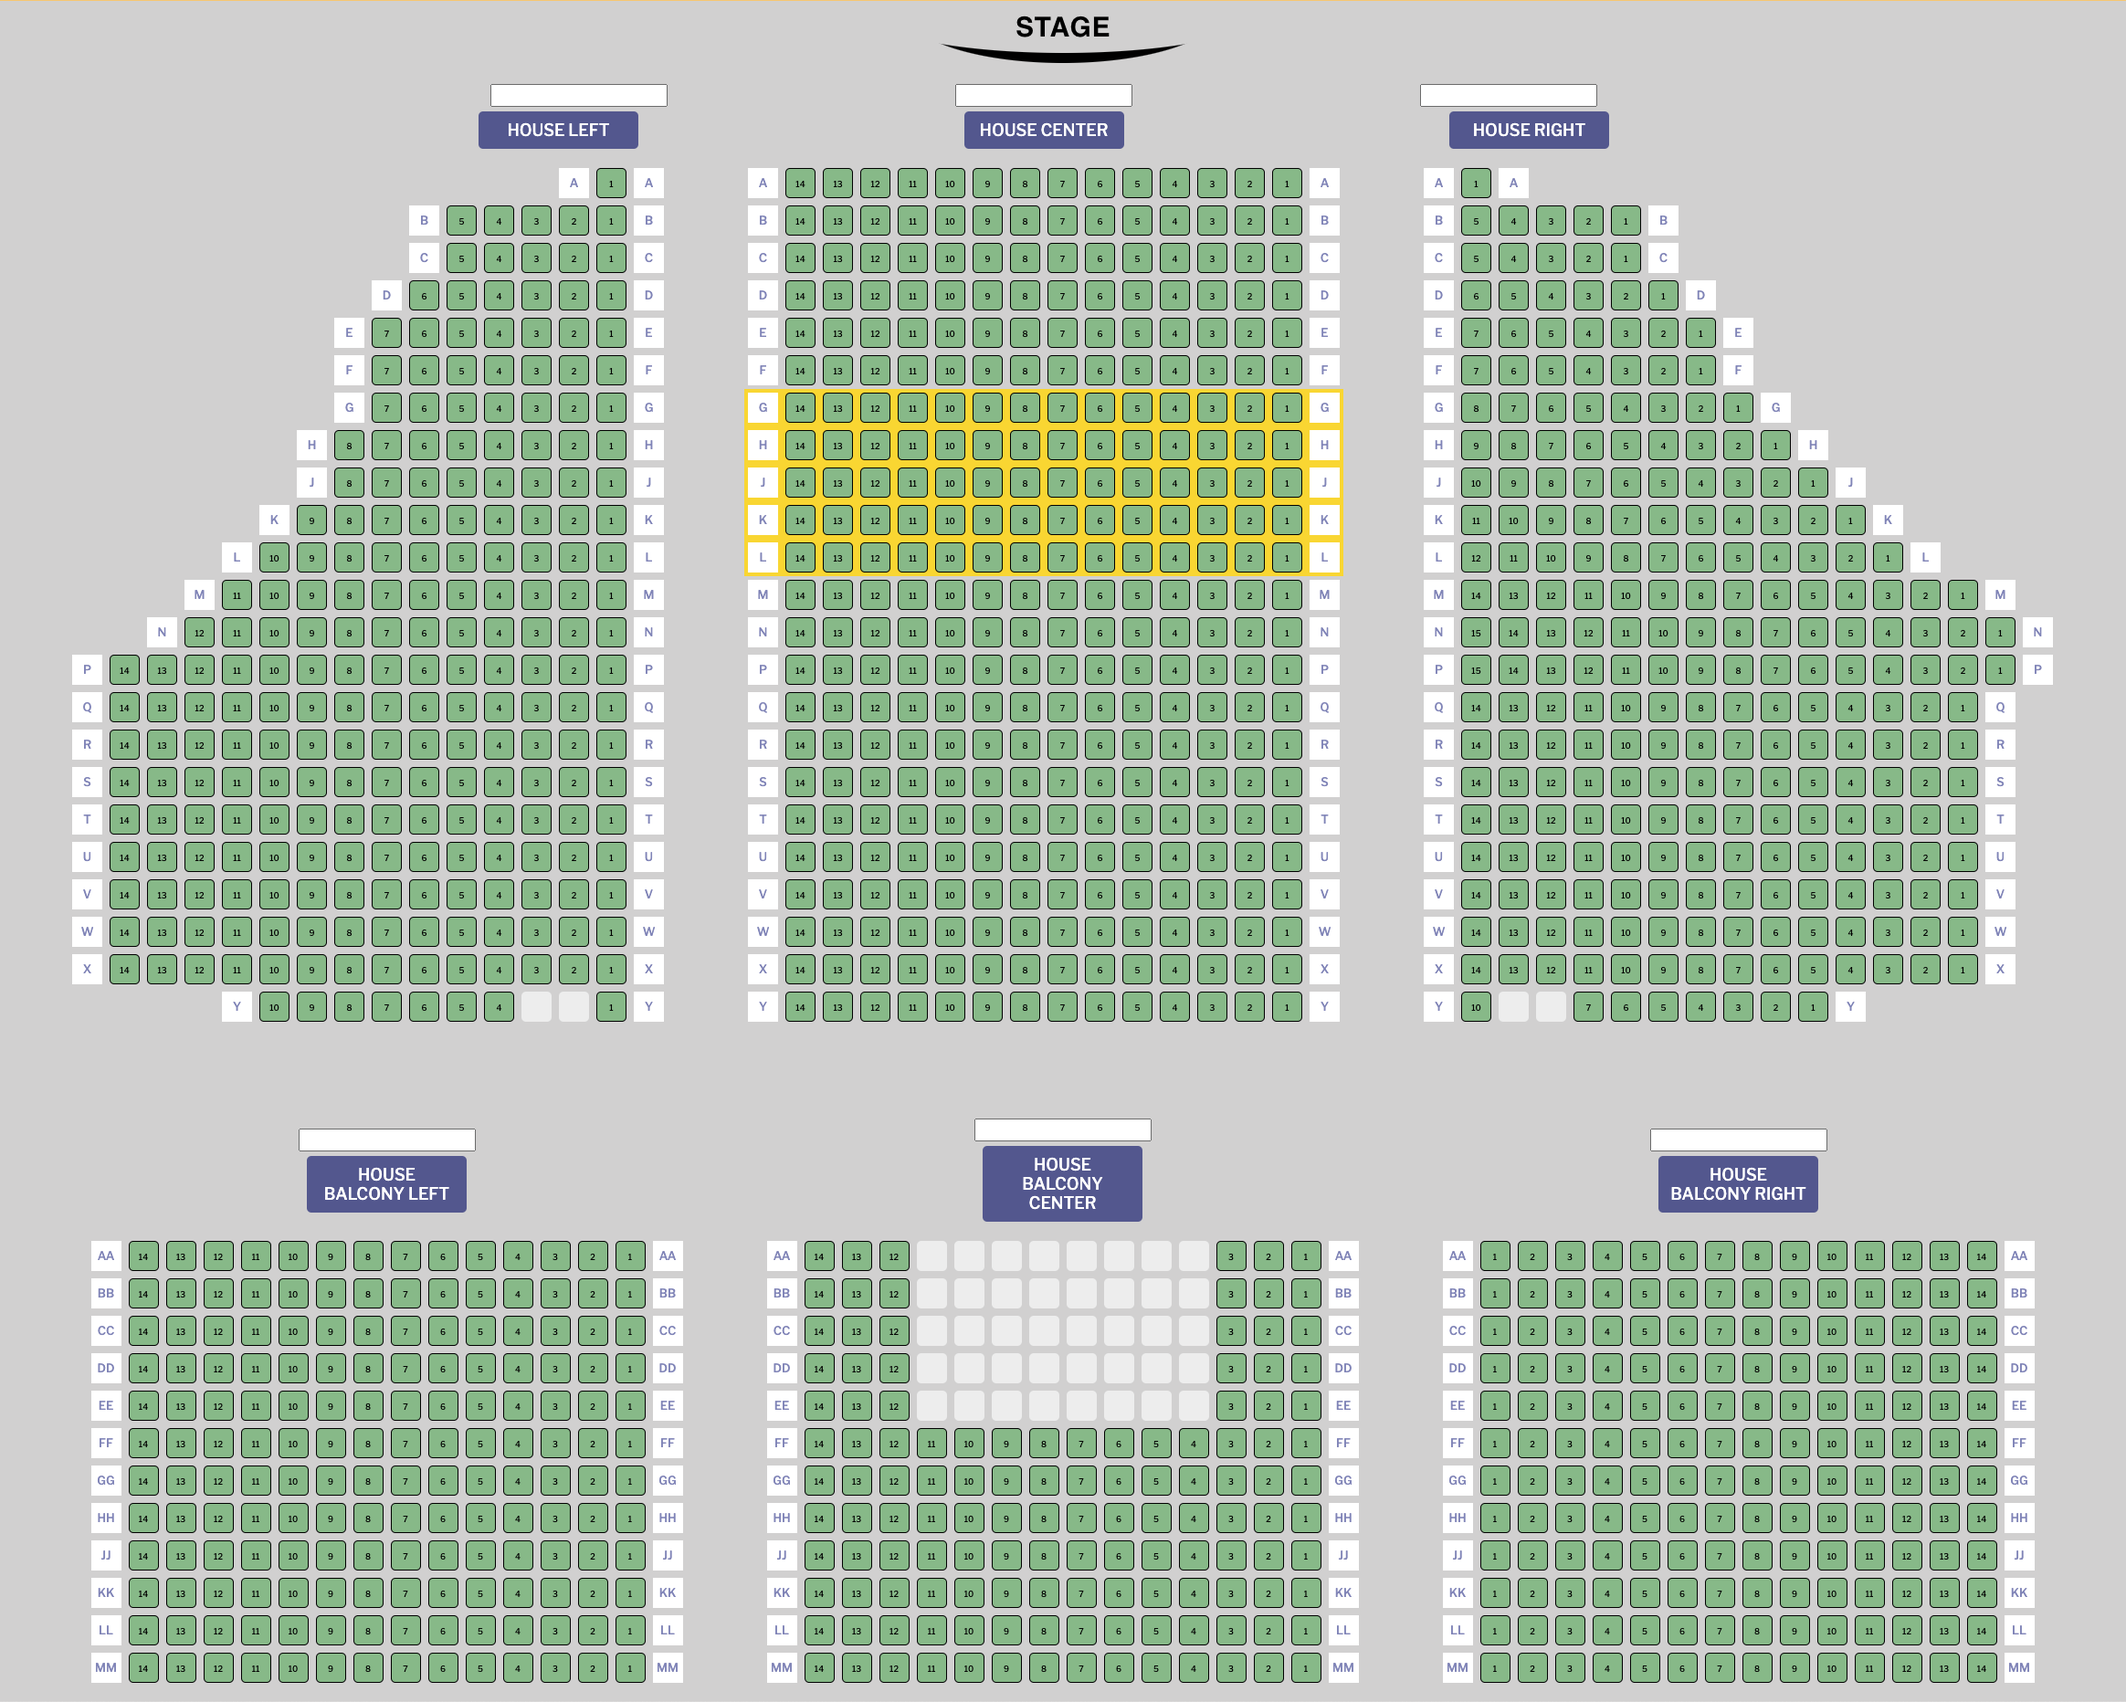
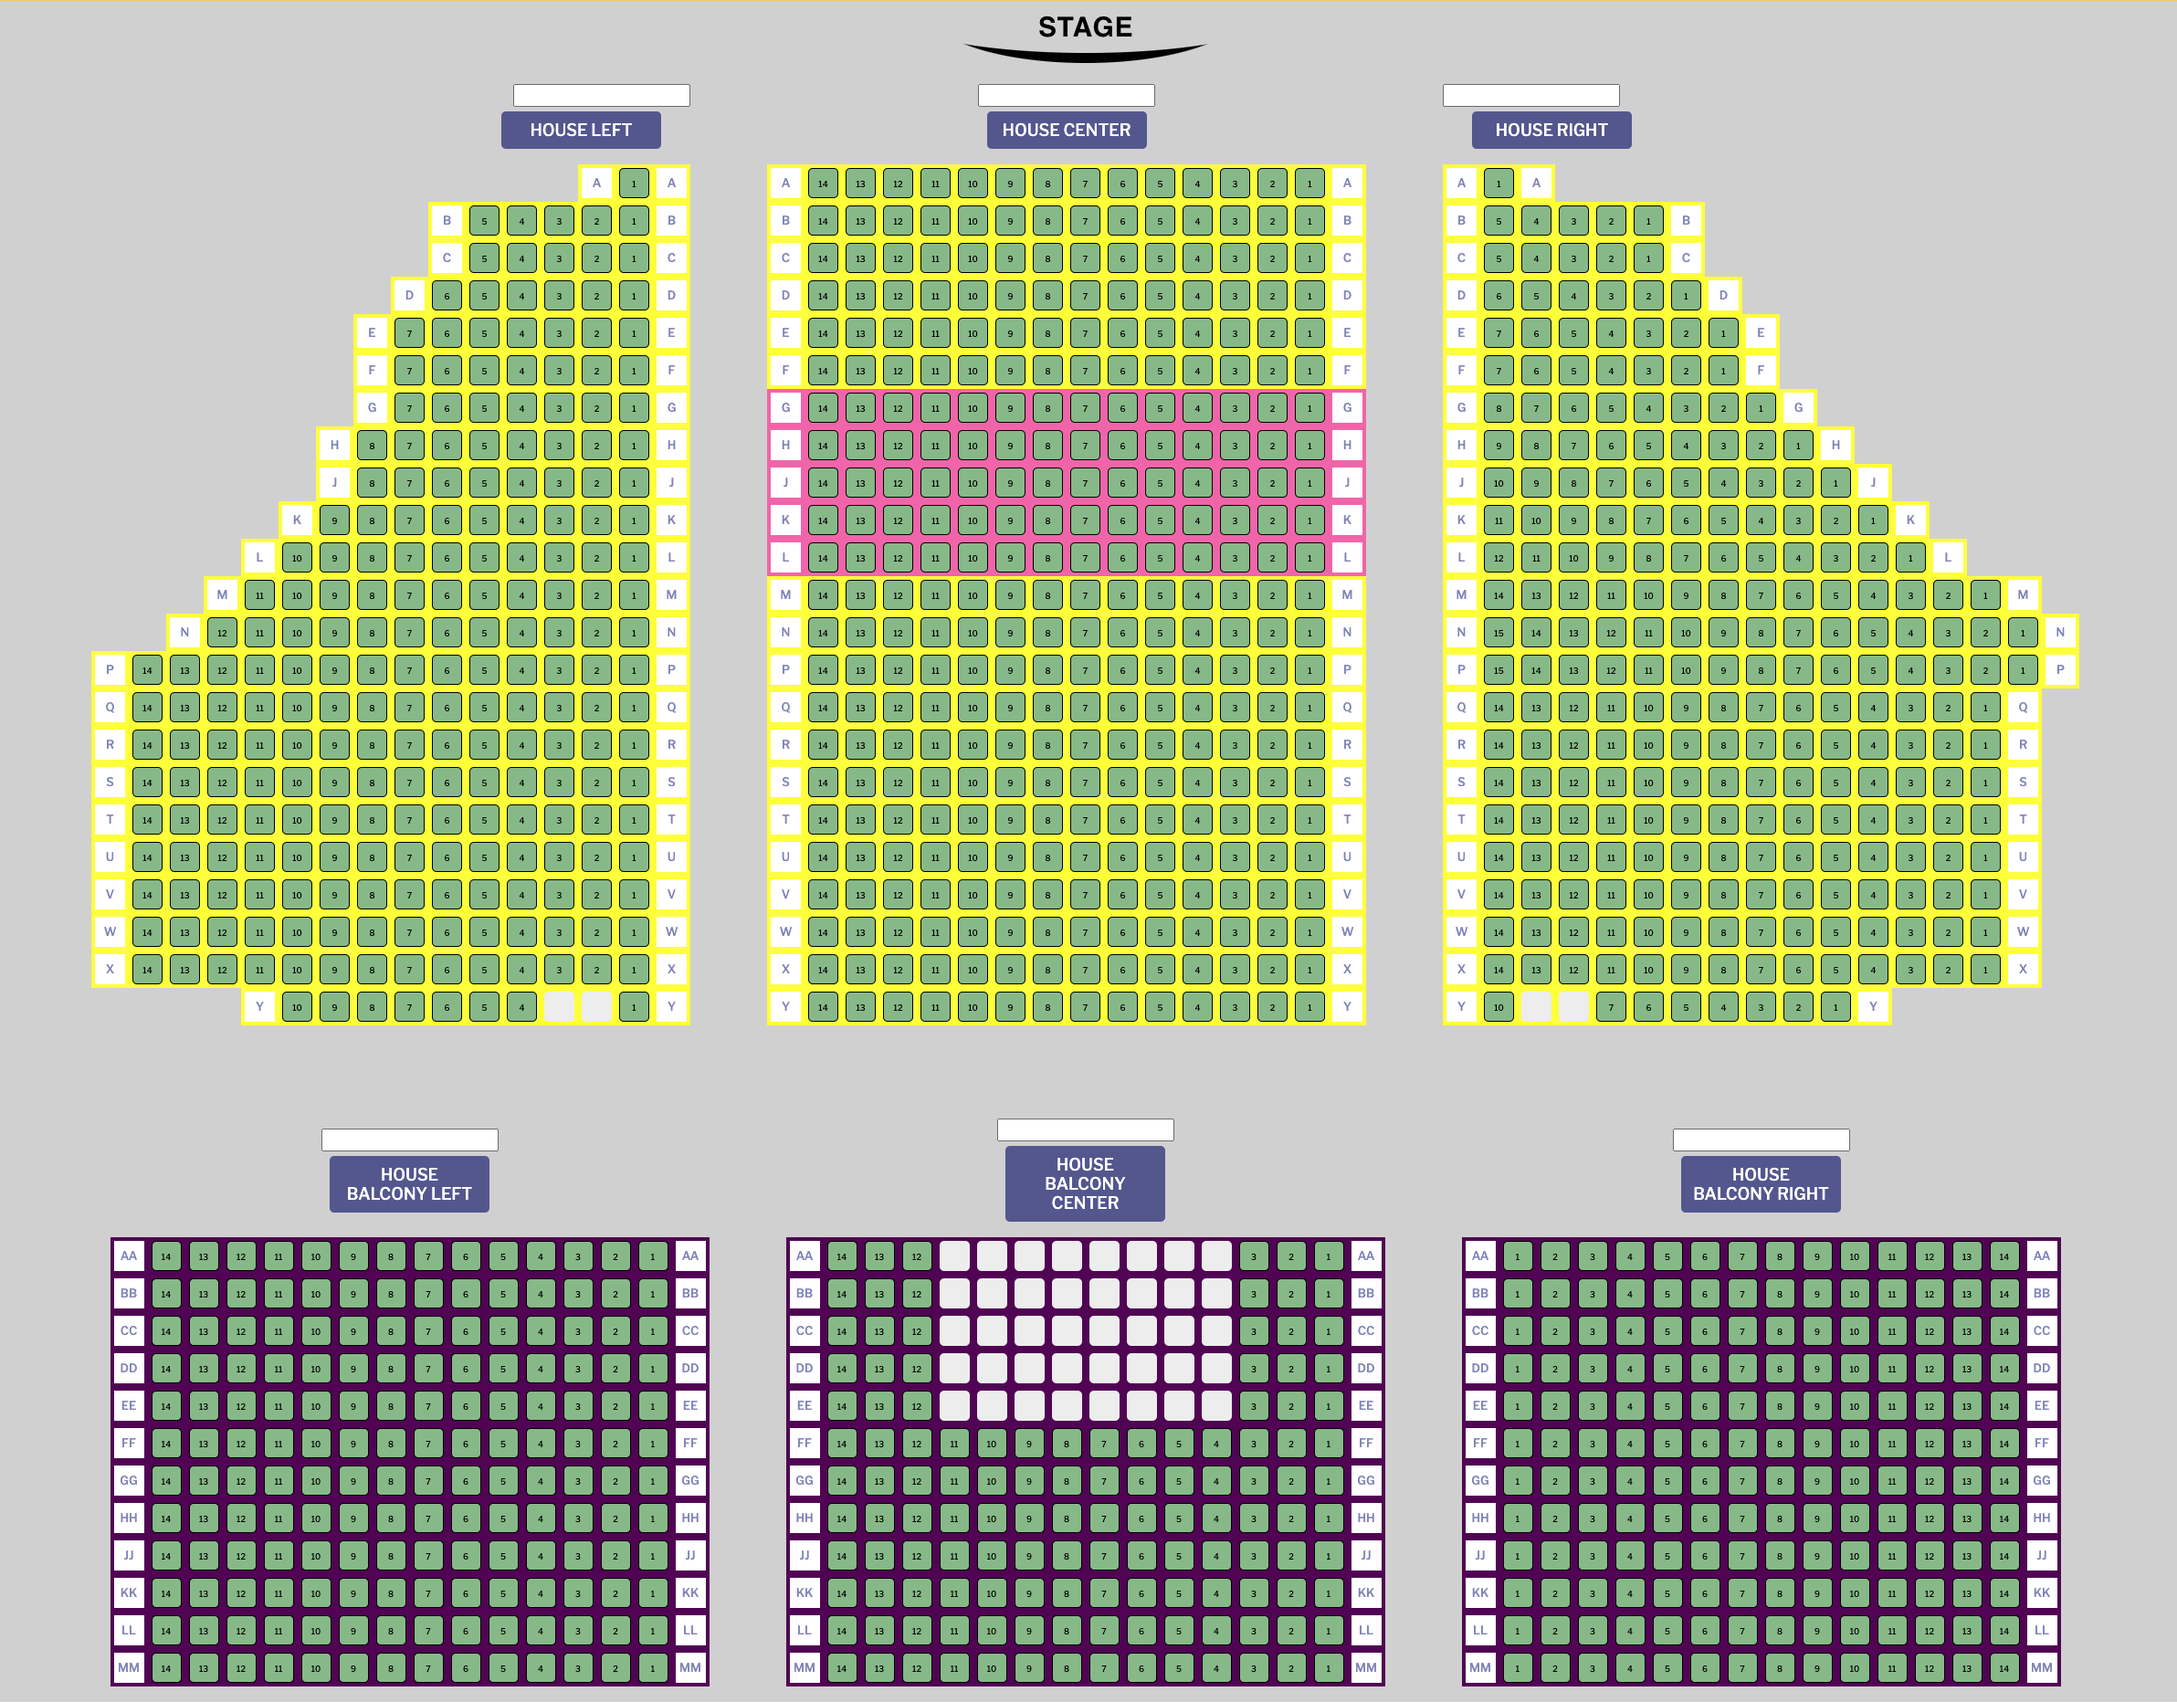
new venue

diff --git a/Completed/35053.html b/Completed/35053.html
@@ -1,8 +1,16 @@
 <!-- Farrington High School Auditorium -->
 <style>
-  .row-gold > div > table > tbody > tr,
-  .row-gold > div > table > tr {
-    background-color: gold;
+  .row-pink > div > table > tbody > tr,
+  .row-pink > div > table > tr {
+    background-color: hotpink;
+  }
+  .row-yellow > div > table > tbody > tr,
+  .row-yellow > div > table > tr {
+    background-color: yellow;
+  }
+  .row-purple > div > table > tbody > tr,
+  .row-purple > div > table > tr {
+    background-color: rgb(96, 0, 96);
   }
 </style>
 
@@ -72,7 +80,9 @@
           <!-- Front Seats -->
           <tr>
             <td>
-              <div align="right">{{{ sectionsMarkup.46125 }}}</div>
+              <div class="row-yellow" align="right">
+                {{{ sectionsMarkup.46125 }}}
+              </div>
             </td>
             <td>
               <div align="center">
@@ -84,26 +94,32 @@
                 >
                   <tr>
                     <td>
-                      <div align="center">{{{ sectionsMarkup.46126 }}}</div>
+                      <div class="row-yellow" align="center">
+                        {{{ sectionsMarkup.46126 }}}
+                      </div>
                     </td>
                   </tr>
                   <tr>
                     <td>
-                      <div class="row-gold" align="center">
+                      <div class="row-pink" align="center">
                         {{{ sectionsMarkup.46127 }}}
                       </div>
                     </td>
                   </tr>
                   <tr>
                     <td>
-                      <div align="center">{{{ sectionsMarkup.46128 }}}</div>
+                      <div class="row-yellow" align="center">
+                        {{{ sectionsMarkup.46128 }}}
+                      </div>
                     </td>
                   </tr>
                 </table>
               </div>
             </td>
             <td>
-              <div align="left">{{{ sectionsMarkup.46129 }}}</div>
+              <div class="row-yellow" align="left">
+                {{{ sectionsMarkup.46129 }}}
+              </div>
             </td>
           </tr>
         </table>
@@ -162,13 +178,19 @@
           <!-- Back Seats -->
           <tr>
             <td>
-              <div align="center">{{{ sectionsMarkup.46130 }}}</div>
+              <div class="row-purple" align="center">
+                {{{ sectionsMarkup.46130 }}}
+              </div>
             </td>
             <td>
-              <div align="center">{{{ sectionsMarkup.46131 }}}</div>
+              <div class="row-purple" align="center">
+                {{{ sectionsMarkup.46131 }}}
+              </div>
             </td>
             <td>
-              <div align="center">{{{ sectionsMarkup.46132 }}}</div>
+              <div class="row-purple" align="center">
+                {{{ sectionsMarkup.46132 }}}
+              </div>
             </td>
           </tr>
         </table>
